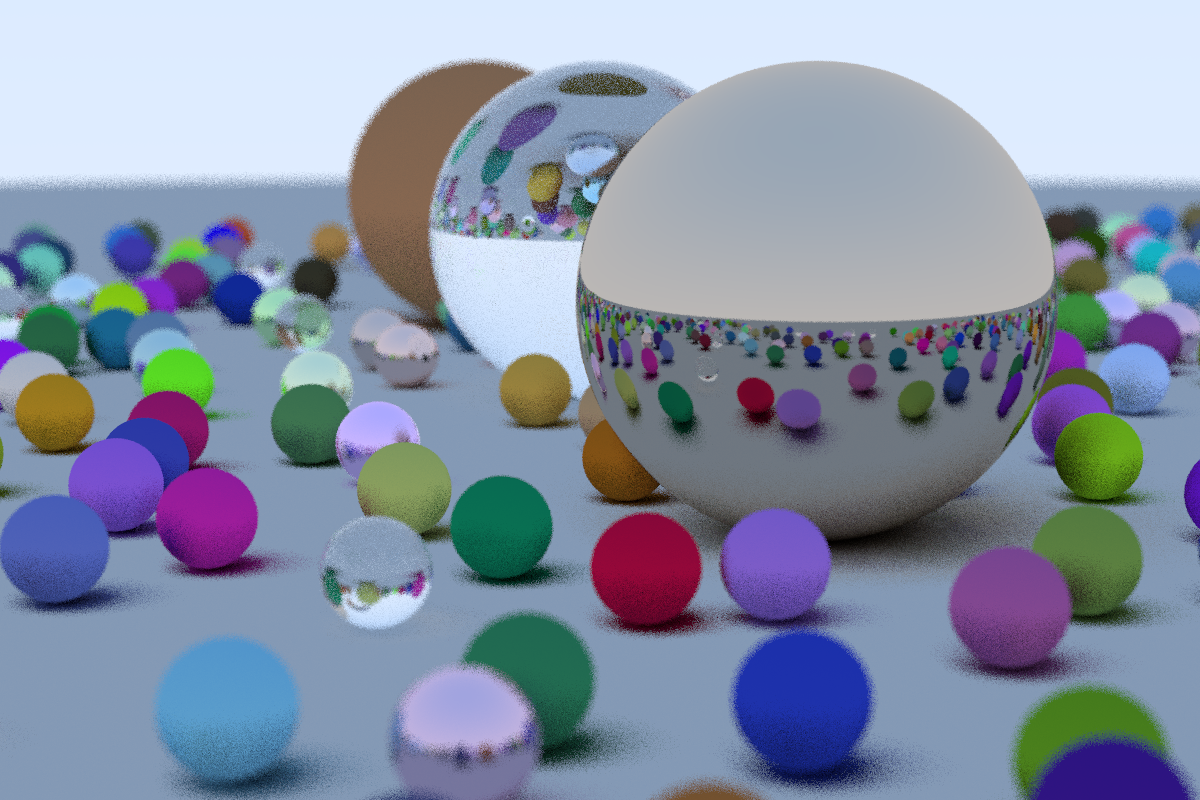
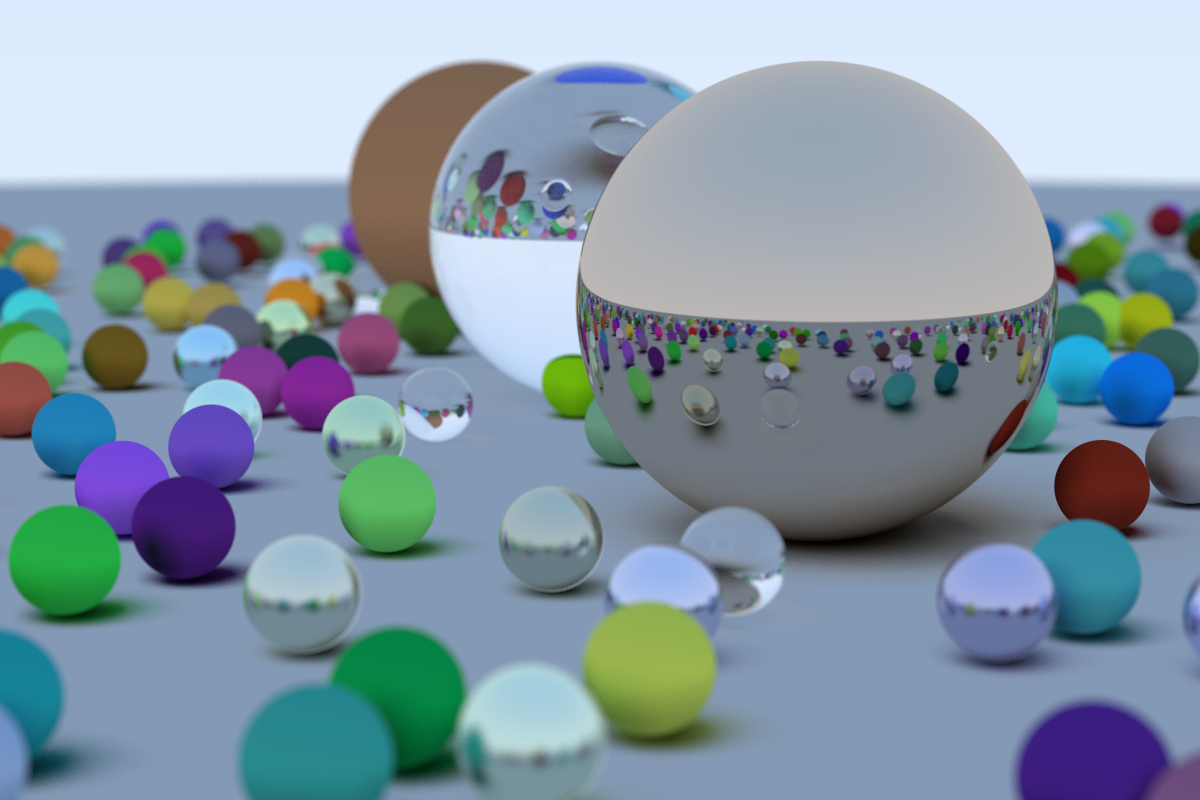
Add readme

diff --git a/src/hitable.rs b/src/hitable.rs
@@ -21,7 +21,7 @@ impl<'a> HitRecord<'a> {
     }
 }
 
-pub trait Hitable: Send + Sync {
+pub trait Hitable: Sync {
     fn hit(&self, ray: &Ray, tmin: f32, tmax: f32) -> Option<HitRecord>;
 }
 
@@ -34,7 +34,7 @@ impl HitableList {
         HitableList { objects: vec![] }
     }
 
-    pub fn add(&mut self, hitable: impl Hitable + 'static + Send + Sync) {
+    pub fn add(&mut self, hitable: impl Hitable + 'static + Sync) {
         self.objects.push(Box::new(hitable));
     }
 }

diff --git a/src/main.rs b/src/main.rs
@@ -18,7 +18,7 @@ fn main() {
     let width: u32 = 1200;
     let aspect_ratio: f32 = 3.0 / 2.0;
     let height: u32 = (width as f32 / aspect_ratio) as u32;
-    let samples_per_pixel = 10;
+    let samples_per_pixel = 500;
 
     let scene = random_scene();
     let lookfrom = Vec3::new(13.0, 2.0, 3.0);

diff --git a/src/material/mod.rs b/src/material/mod.rs
@@ -7,7 +7,7 @@ use glam::Vec3;
 use crate::hitable::HitRecord;
 use crate::ray::Ray;
 
-pub trait Material: Send + Sync {
+pub trait Material: Sync {
     fn scatter(&self, ray: &Ray, hit_record: &HitRecord) -> Option<Scatter>;
 }
 

diff --git a/README.md b/README.md
@@ -1,0 +1,15 @@
+<h1 align="center">
+  Raytracing in one weekend
+</h1>
+<p align="center">
+  <a href="https://raytracing.github.io/books/RayTracingInOneWeekend.html">
+      <cite>Ray Tracing in One Weekend</cite>
+  </a>
+</p>
+
+<p align="center">
+Yet another implementation of Raytracing in One Weekend by Peter Shirley. Written in Rust to get used to the language.
+</p>
+
+![Raytracing](/image.png)
+
